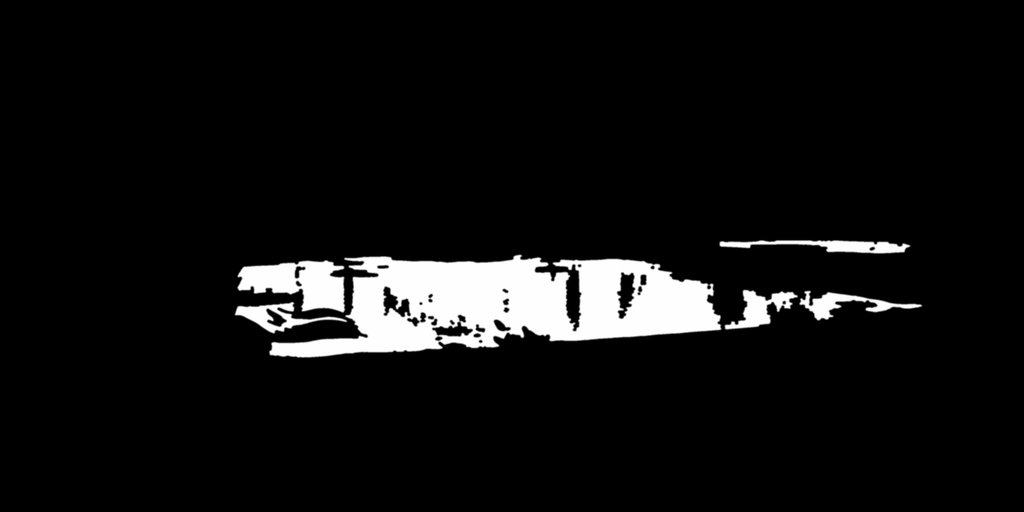
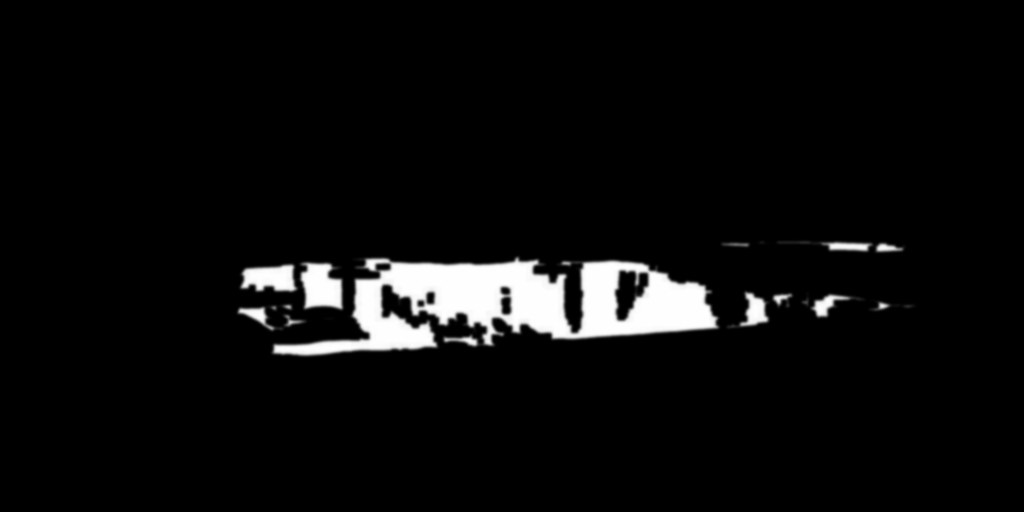
Linden: water/fire masks rendered in the panorama pass (no bleed over the coping), eroded masks
Claude-Session: https://claude.ai/code/session_01YUM58pQzzCwZw7wn9K1kUG

Changed region(s): [[0.2188, 0.5, 0.9062, 0.7188], [0.6875, 0.4688, 0.9062, 0.5]]

diff --git a/linden-pools/index.html b/linden-pools/index.html
@@ -220,6 +220,14 @@ const sphereFS=`
     c*=exposure*edge;
     gl_FragColor=vec4(c, opacity);
   }`;
+const maskFS=`
+  uniform sampler2D mask, fire; uniform float hasMask, hasFire, opacity;
+  varying vec3 vDir; varying vec2 vUv2;
+  void main(){ vec2 cu=clamp(vUv2,0.0,1.0); bool inside = vUv2.x>0.0 && vUv2.x<1.0 && vUv2.y>0.0 && vUv2.y<1.0;
+    float w = (hasMask>0.5 && inside) ? texture2D(mask, cu).r : 0.0; vec3 f = (hasFire>0.5 && inside) ? texture2D(fire, cu).rgb : vec3(0.0);
+    gl_FragColor=vec4(w, f.r, f.b, opacity); }`;
+function makeMaskMat(){ return new THREE.ShaderMaterial({vertexShader:sphereVS, fragmentShader:maskFS, uniforms:{depthMap:{value:null}, hasDepth:{value:0}, parallax:{value:0.72}, fov:{value:new THREE.Vector2(1,1)}, fovMap:{value:new THREE.Vector2(THREE.MathUtils.degToRad(140),THREE.MathUtils.degToRad(70))}, mask:{value:null}, fire:{value:null}, hasMask:{value:0}, hasFire:{value:0}, opacity:{value:1}}, side:THREE.BackSide, transparent:true, depthWrite:false, depthTest:false}); }
+const maskMatA=makeMaskMat(), maskMatB=makeMaskMat();
 function makeSphere(){
   const geo=new THREE.SphereGeometry(1, 192, 96);
   const mat=new THREE.ShaderMaterial({vertexShader:sphereVS, fragmentShader:sphereFS, uniforms:{map:{value:null}, depthMap:{value:null}, hasDepth:{value:0}, parallax:{value:0.72}, fov:{value:new THREE.Vector2(THREE.MathUtils.degToRad(140),THREE.MathUtils.degToRad(70))}, fovMap:{value:new THREE.Vector2(THREE.MathUtils.degToRad(140),THREE.MathUtils.degToRad(70))}, opacity:{value:1}, exposure:{value:1}, night:{value:0}, time:{value:0}}, side:THREE.BackSide, transparent:true, depthWrite:false, depthTest:false});
@@ -299,6 +307,9 @@ const rtOpts={minFilter:THREE.LinearFilter, magFilter:THREE.LinearFilter, format
 let simA=new THREE.WebGLRenderTarget(SIMW,SIMH,rtOpts), simB=new THREE.WebGLRenderTarget(SIMW,SIMH,rtOpts), simC=new THREE.WebGLRenderTarget(SIMW,SIMH,rtOpts);
 simA.texture.wrapS=simB.texture.wrapS=simC.texture.wrapS=THREE.ClampToEdgeWrapping;
 const sceneRT=new THREE.WebGLRenderTarget(innerWidth, innerHeight, {minFilter:THREE.LinearFilter, magFilter:THREE.LinearFilter, depthBuffer:false, stencilBuffer:false});
+const maskRT=new THREE.WebGLRenderTarget(Math.round(innerWidth/2), Math.round(innerHeight/2), {minFilter:THREE.LinearFilter, magFilter:THREE.LinearFilter, depthBuffer:false, stencilBuffer:false});
+function syncMask(mm, sm, st){ mm.uniforms.depthMap.value=sm.uniforms.depthMap.value; mm.uniforms.hasDepth.value=sm.uniforms.hasDepth.value; mm.uniforms.parallax.value=sm.uniforms.parallax.value; mm.uniforms.opacity.value=sm.uniforms.opacity.value; mm.uniforms.mask.value=st.mask; mm.uniforms.hasMask.value=st.mask?1:0; mm.uniforms.fire.value=st.fire; mm.uniforms.hasFire.value=st.fire?1:0; }
+function runMaskPass(A,B){ syncMask(maskMatA, sphA.material, A); syncMask(maskMatB, sphB.material, B); const ma=sphA.material, mb=sphB.material; sphA.material=maskMatA; sphB.material=maskMatB; const pts=[fireflies,steam,fireFar,firePit,bubbles]; const vis=pts.map(p=>p.visible); pts.forEach(p=>p.visible=false); renderer.setRenderTarget(maskRT); renderer.setClearColor(0x000000,0); renderer.clear(); renderer.render(scene, camera); sphA.material=ma; sphB.material=mb; pts.forEach((p,i)=>p.visible=vis[i]); }
 const quadGeo=new THREE.PlaneGeometry(2,2); const quadCam=new THREE.OrthographicCamera(-1,1,1,-1,0,1); const quadScene=new THREE.Scene();
 const simMat=new THREE.ShaderMaterial({uniforms:{prev:{value:null}, prev2:{value:null}, drop:{value:new THREE.Vector3(-10,-10,0)}, drop2:{value:new THREE.Vector3(-10,-10,0)}, texel:{value:new THREE.Vector2(1/SIMW,1/SIMH)}, damp:{value:0.975}},
   vertexShader:`varying vec2 vUv; void main(){ vUv=uv; gl_Position=vec4(position.xy,0.0,1.0); }`,
@@ -309,9 +320,9 @@ const simMat=new THREE.ShaderMaterial({uniforms:{prev:{value:null}, prev2:{value
       vec2 d2=vUv-drop2.xy; d2.x*=2.0; n+=exp(-dot(d2,d2)*9000.0)*drop2.z;
       gl_FragColor=vec4(n,0.,0.,1.); }`});
 const simMesh=new THREE.Mesh(quadGeo, simMat); quadScene.add(simMesh);
-const postMat=new THREE.ShaderMaterial({uniforms:{fov:{value:new THREE.Vector2(THREE.MathUtils.degToRad(140),THREE.MathUtils.degToRad(70))}, tex:{value:sceneRT.texture}, bloom:{value:null}, height:{value:null}, mask:{value:null}, hasMask:{value:0}, fireA:{value:null}, fireB:{value:null}, fireMix:{value:0}, invPV:{value:new THREE.Matrix4()}, time:{value:0}, under:{value:0}, aspect:{value:1}, vig:{value:1}, dusk:{value:0}, ripple:{value:1}, splash:{value:0}, resolution:{value:new THREE.Vector2(innerWidth,innerHeight)}},
+const postMat=new THREE.ShaderMaterial({uniforms:{fov:{value:new THREE.Vector2(THREE.MathUtils.degToRad(140),THREE.MathUtils.degToRad(70))}, tex:{value:sceneRT.texture}, bloom:{value:null}, height:{value:null}, mask:{value:null}, hasMask:{value:0}, fireA:{value:null}, fireB:{value:null}, fireMix:{value:0}, masks:{value:maskRT.texture}, invPV:{value:new THREE.Matrix4()}, time:{value:0}, under:{value:0}, aspect:{value:1}, vig:{value:1}, dusk:{value:0}, ripple:{value:1}, splash:{value:0}, resolution:{value:new THREE.Vector2(innerWidth,innerHeight)}},
   vertexShader:`varying vec2 vUv; void main(){ vUv=uv; gl_Position=vec4(position.xy,0.0,1.0); }`,
-  fragmentShader:`uniform sampler2D tex, bloom, height, mask, fireA, fireB; uniform float hasMask, time, under, aspect, vig, dusk, ripple, splash, fireMix; uniform mat4 invPV; uniform vec2 resolution; varying vec2 vUv;
+  fragmentShader:`uniform sampler2D tex, bloom, height, mask, fireA, fireB, masks; uniform float hasMask, time, under, aspect, vig, dusk, ripple, splash, fireMix; uniform mat4 invPV; uniform vec2 resolution; varying vec2 vUv;
     const float PI=3.14159265;
     uniform vec2 fov;
     vec2 dirToUv(vec3 d){ return vec2(atan(d.x,-d.z)/fov.x+0.5, asin(clamp(d.y,-1.0,1.0))/fov.y+0.5); }
@@ -323,7 +334,7 @@ const postMat=new THREE.ShaderMaterial({uniforms:{fov:{value:new THREE.Vector2(T
       vec2 eq=dirToUv(dir); bool inside = eq.x>0.0 && eq.x<1.0 && eq.y>0.0 && eq.y<1.0;
       float t=time*0.001;
       // ---------- water: a living surface, not a lens ----------
-      float m = (hasMask>0.5 && inside) ? texture2D(mask, eq).r : 0.0;
+      vec4 mk=texture2D(masks, vUv); float m = mk.r;
       vec2 off=vec2(0.0); float glint=0.0;
       if (m>0.01 && ripple>0.0){
         float persp = smoothstep(0.5,0.12,eq.y);                       // nearer water (lower in frame) moves more
@@ -339,7 +350,7 @@ const postMat=new THREE.ShaderMaterial({uniforms:{fov:{value:new THREE.Vector2(T
         glint = (pow(clamp(1.0-abs(g.y*6.0),0.0,1.0),10.0)*0.5*persp + ring*0.6) * m;
       }
       // ---------- fire: shimmer + flicker inside the real flames ----------
-      vec3 fa = inside ? texture2D(fireA, eq).rgb : vec3(0.0); vec3 fb = inside ? texture2D(fireB, eq).rgb : vec3(0.0); vec3 fm = mix(fa, fb, fireMix);
+      vec3 fm = vec3(mk.g, 0.0, mk.b);
       float flick = 0.86 + 0.22*noise(vec2(t*2.6, 1.3)) + 0.12*noise(vec2(t*9.0, 7.7));
       if (fm.r>0.02){
         // no warping: only a faint internal lick inside the brightest part of the flames
@@ -462,7 +473,7 @@ function frame(now){
   camera.updateMatrixWorld(); postMat.uniforms.invPV.value.copy(camera.projectionMatrix).multiply(camera.matrixWorldInverse).invert();
   // sim + render
   runSim(); postMat.uniforms.height.value=simA.texture;
-  renderer.setRenderTarget(sceneRT); renderer.render(scene, camera); runBloom(); renderer.setRenderTarget(null); renderer.render(postScene, quadCam);
+  runMaskPass(A,B); renderer.setRenderTarget(sceneRT); renderer.render(scene, camera); runBloom(); renderer.setRenderTarget(null); renderer.render(postScene, quadCam);
   // hud
   setStop(xf>0.5? Math.min(N-1,i+1) : i);
   document.getElementById('lvl').style.height=(p/(N-1)*100).toFixed(1)+'%';
@@ -475,7 +486,7 @@ function frame(now){
 }
 
 /* ================= resize ================= */
-window.addEventListener('resize', ()=>{ renderer.setSize(innerWidth, innerHeight); camera.aspect=innerWidth/innerHeight; camera.updateProjectionMatrix(); sceneRT.setSize(innerWidth*renderer.getPixelRatio(), innerHeight*renderer.getPixelRatio()); postMat.uniforms.resolution.value.set(innerWidth,innerHeight); const nbw=Math.max(64,Math.round(innerWidth/4)), nbh=Math.max(64,Math.round(innerHeight/4)); bloomA.setSize(nbw,nbh); bloomB.setSize(nbw,nbh); blurMat.uniforms.texel.value.set(1/nbw,1/nbh); onScroll(); });
+window.addEventListener('resize', ()=>{ renderer.setSize(innerWidth, innerHeight); camera.aspect=innerWidth/innerHeight; camera.updateProjectionMatrix(); sceneRT.setSize(innerWidth*renderer.getPixelRatio(), innerHeight*renderer.getPixelRatio()); postMat.uniforms.resolution.value.set(innerWidth,innerHeight); const nbw=Math.max(64,Math.round(innerWidth/4)), nbh=Math.max(64,Math.round(innerHeight/4)); bloomA.setSize(nbw,nbh); bloomB.setSize(nbw,nbh); maskRT.setSize(Math.round(innerWidth/2), Math.round(innerHeight/2)); blurMat.uniforms.texel.value.set(1/nbw,1/nbh); onScroll(); });
 sceneRT.setSize(innerWidth*renderer.getPixelRatio(), innerHeight*renderer.getPixelRatio());
 
 /* ================= audio (ambient loops crossfaded by stop) ================= */
